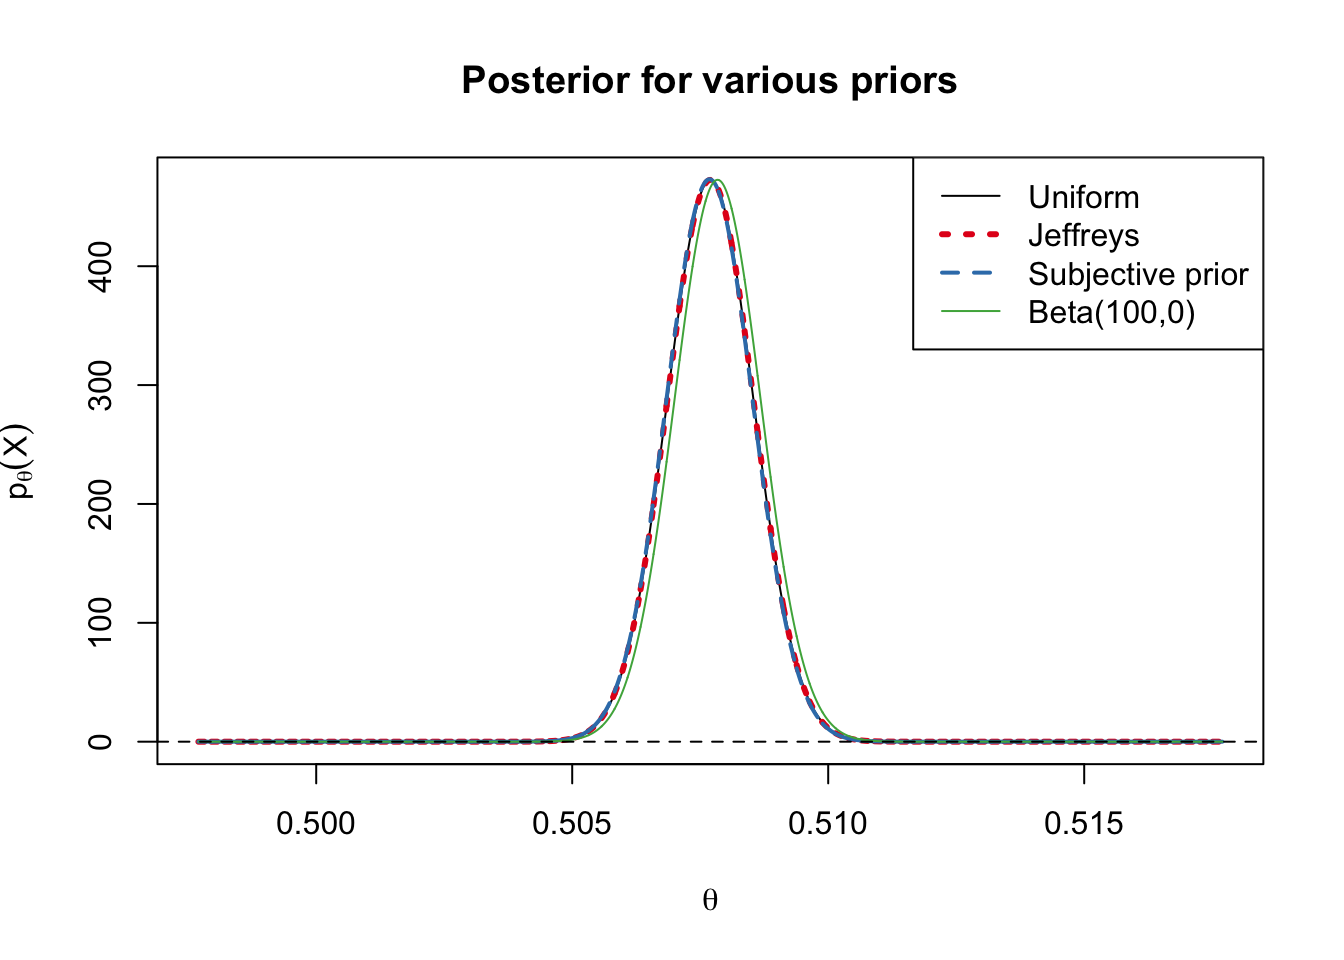
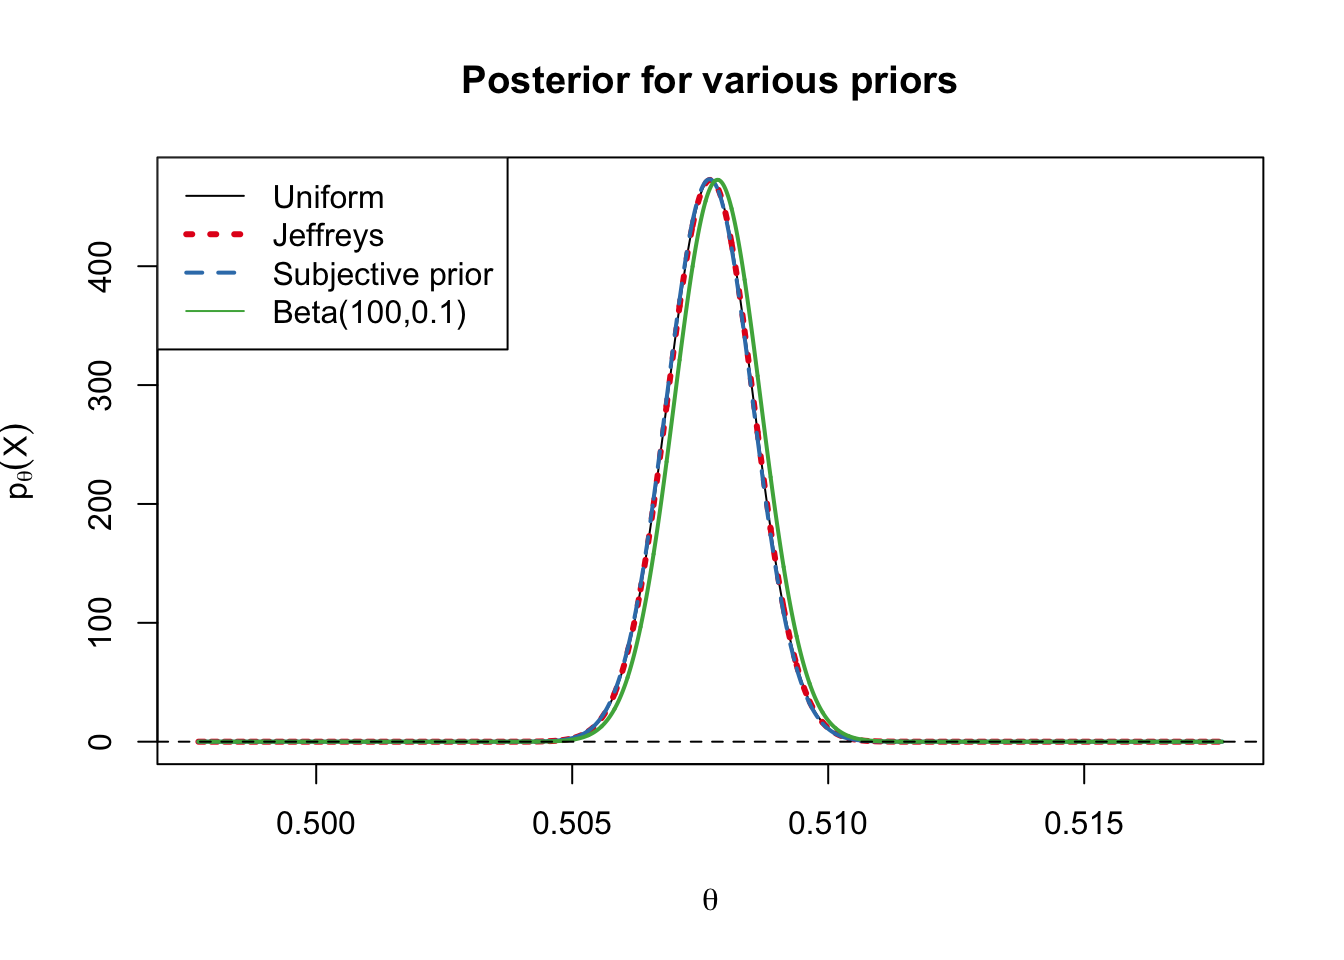
Built site for gh-pages

diff --git a/reader/bayes-interpretation.html b/reader/bayes-interpretation.html
@@ -331,7 +331,7 @@ J(\eta) = \Var_\eta(X) =\theta(\eta)(1-\theta(\eta)) = n\frac{e^{\eta}}{(1+e^{\e
 </div>
 </div>
 </div>
-<p>If we multiply this by nearly any prior and then renormalize, we will essentially get back the likelihood again. The plot below shows the posterior for the uniform (flat) and Jeffreys on <span class="math inline">\(\theta\)</span>, as well as our subjective prior from above and a strongly biased prior corresponding to 100 pseudo-successes and no psuedo-failures.</p>
+<p>If we multiply this by nearly any prior and then renormalize, we will essentially get back the likelihood again. The plot below shows the posterior for the uniform (flat) and Jeffreys on <span class="math inline">\(\theta\)</span>, as well as our subjective prior from above and a strongly biased prior corresponding to 100 pseudo-successes and 0.1 psuedo-failures.</p>
 <div class="cell">
 <div class="cell-output-display">
 <div>
@@ -341,6 +341,17 @@ J(\eta) = \Var_\eta(X) =\theta(\eta)(1-\theta(\eta)) = n\frac{e^{\eta}}{(1+e^{\e
 </div>
 </div>
 </div>
+<p>The posteriors converge even though these priors entail very different prior assumptions about <span class="math inline">\(\theta\)</span>, which we can see if we plot them (note the horizontal axis limits have changed to show the entire parameter space):</p>
+<div class="cell">
+<div class="cell-output-display">
+<div>
+<figure class="figure">
+<p><img src="bayes-interpretation_files/figure-html/unnamed-chunk-6-1.png" class="img-fluid figure-img" width="672"></p>
+</figure>
+</div>
+</div>
+</div>
+<p>These priors are very different, but what they all have in common is that they are roughly flat on the narrow interval <span class="math inline">\([0.5,0.515]\)</span>.</p>
 </section>
 </section>
 <section id="convenience-priors" class="level3" data-number="2.4">
